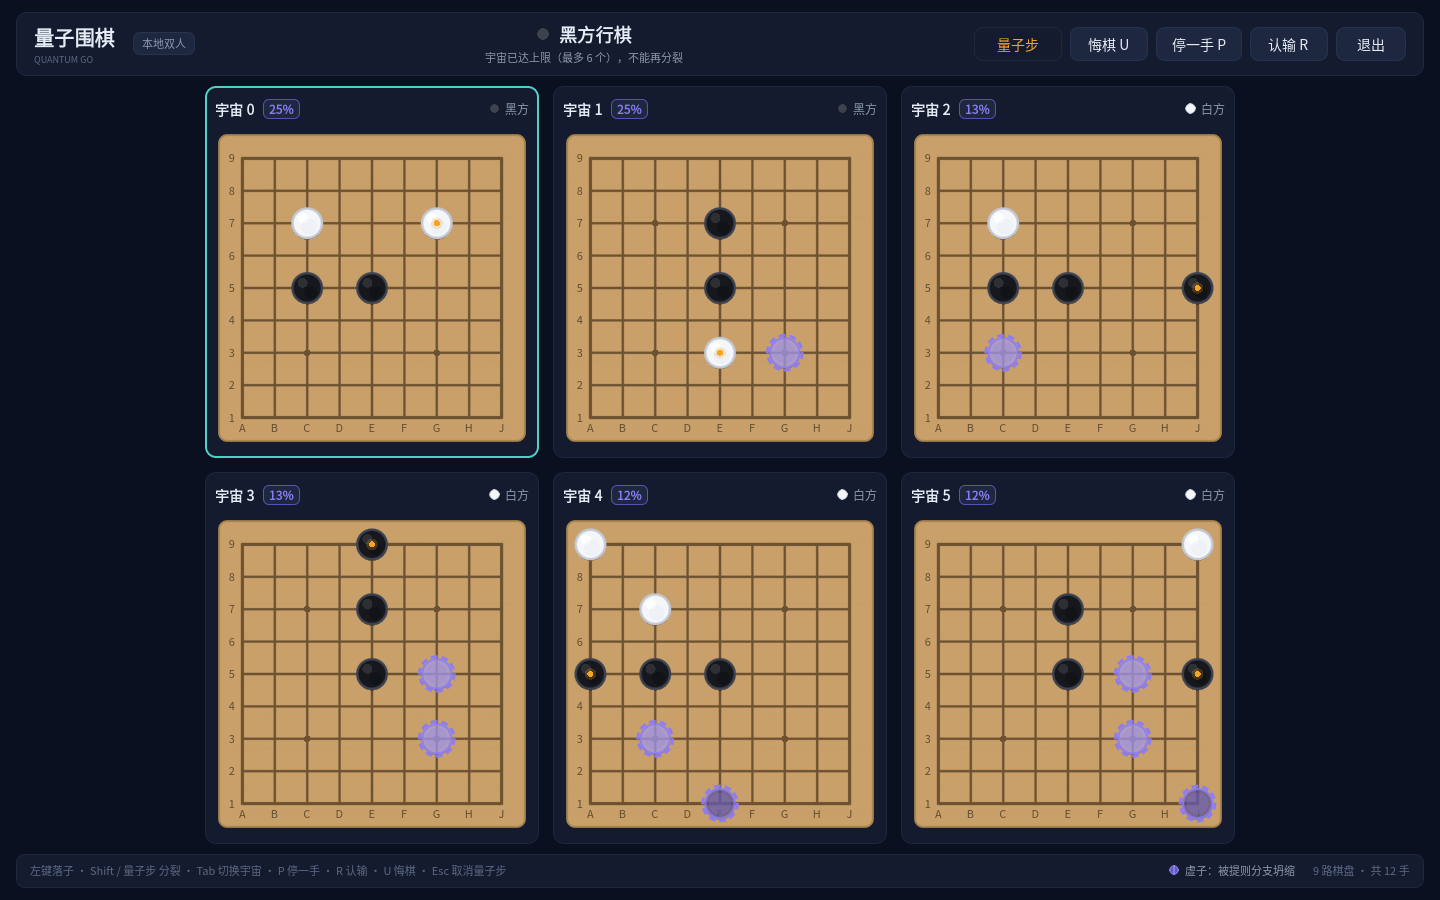
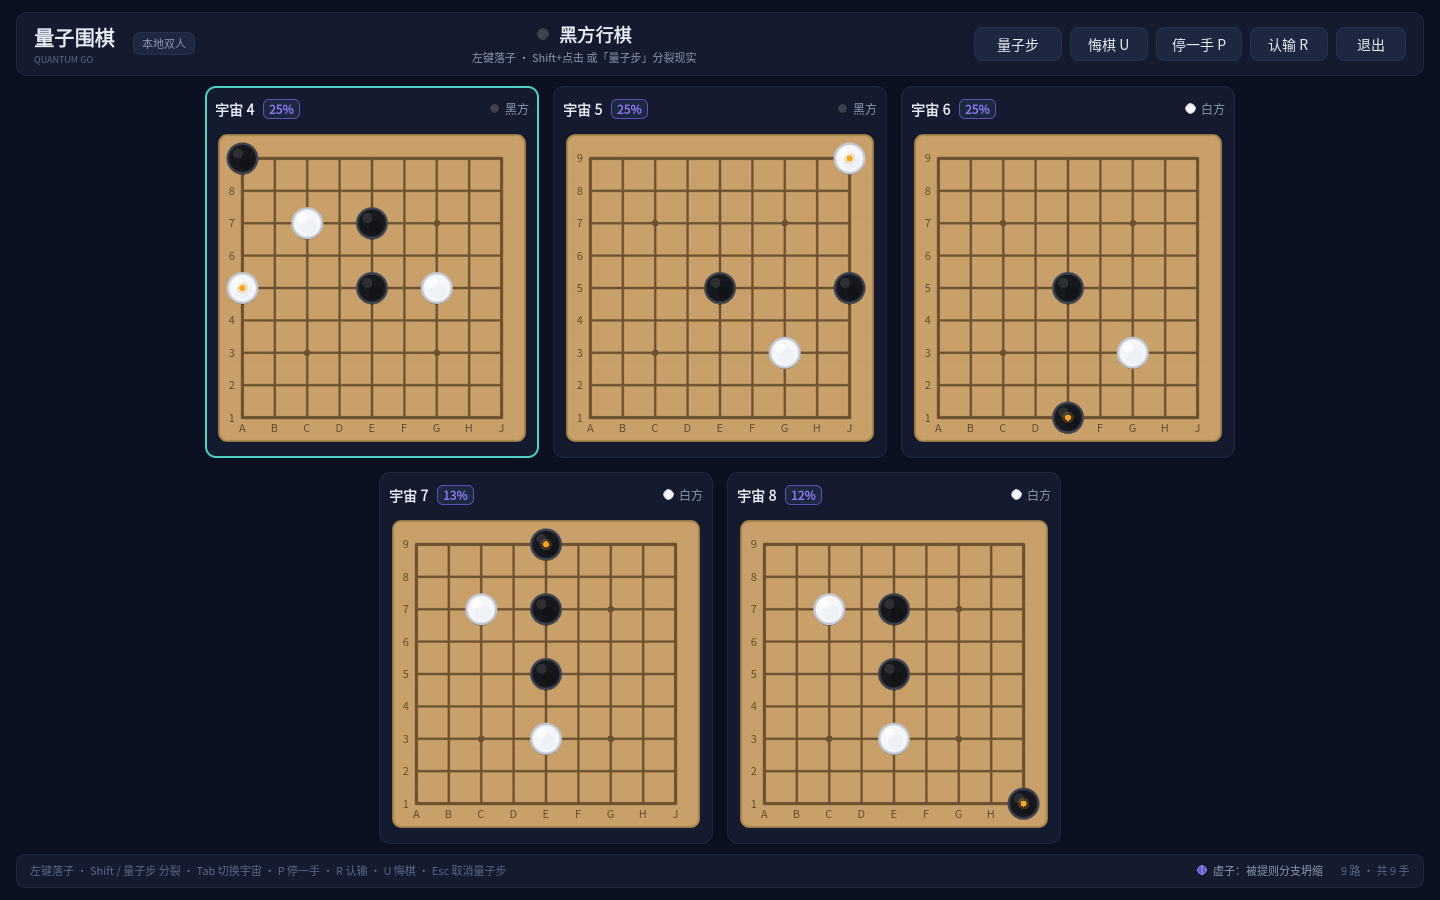
更新首页：界面截图墙、规则页与术语统一为「虚子」
- README 增加界面截图墙（菜单、量子步待选、多宇宙对局、19 路聚焦、教程、规则、排行榜、结算、联机大厅、复盘）
- 规则页与菜单插图按现行规则重写：父宇宙退役裂成两个平级宇宙；每颗新子 50% 为虚子；
  虚子参与提子或被提即判空，子树消减、权重交给同一次分裂的实子一侧
- 全局术语统一：幻影子 → 虚子；成就描述、教程、规则页同步
- 英文文案同步更新

diff --git a/README.md b/README.md
@@ -30,6 +30,16 @@
 完整规则在 [`docs/RULES.md`](docs/RULES.md)，架构与接口契约在
 [`docs/ARCHITECTURE.md`](docs/ARCHITECTURE.md)。
 
+## 界面
+
+| | |
+|:--:|:--:|
+| ![主菜单](docs/screenshots/menu.png)<br>主菜单：一手棋，两个宇宙 | ![量子步待选](docs/screenshots/quantum_pending.png)<br>量子步：A 点已落下，紫色是 B 点候选 |
+| ![两个宇宙](docs/screenshots/match_two.png)<br>分裂后的两个宇宙，各 50% | ![19 路三宇宙](docs/screenshots/board19.png)<br>19 路棋盘 + 3 个宇宙的聚焦布局 |
+| ![教程](docs/screenshots/tutorial_split.png)<br>五步互动教程（这一课会揭开虚子） | ![规则](docs/screenshots/rules.png)<br>内置规则页，两分钟读完 |
+| ![排行榜](docs/screenshots/leaderboard.png)<br>排行榜：本地 Elo、战绩、最近对局 | ![结算](docs/screenshots/result_six.png)<br>结算面板：各宇宙加权目数 |
+| ![联机大厅](docs/screenshots/lobby.png)<br>联机大厅：房主 / 加入 | ![复盘](docs/screenshots/replay.png)<br>复盘：虚子与它对应的实子 |
+
 ## 运行
 
 需要 **Godot 4.6.x 标准版**（不需要 .NET）。
